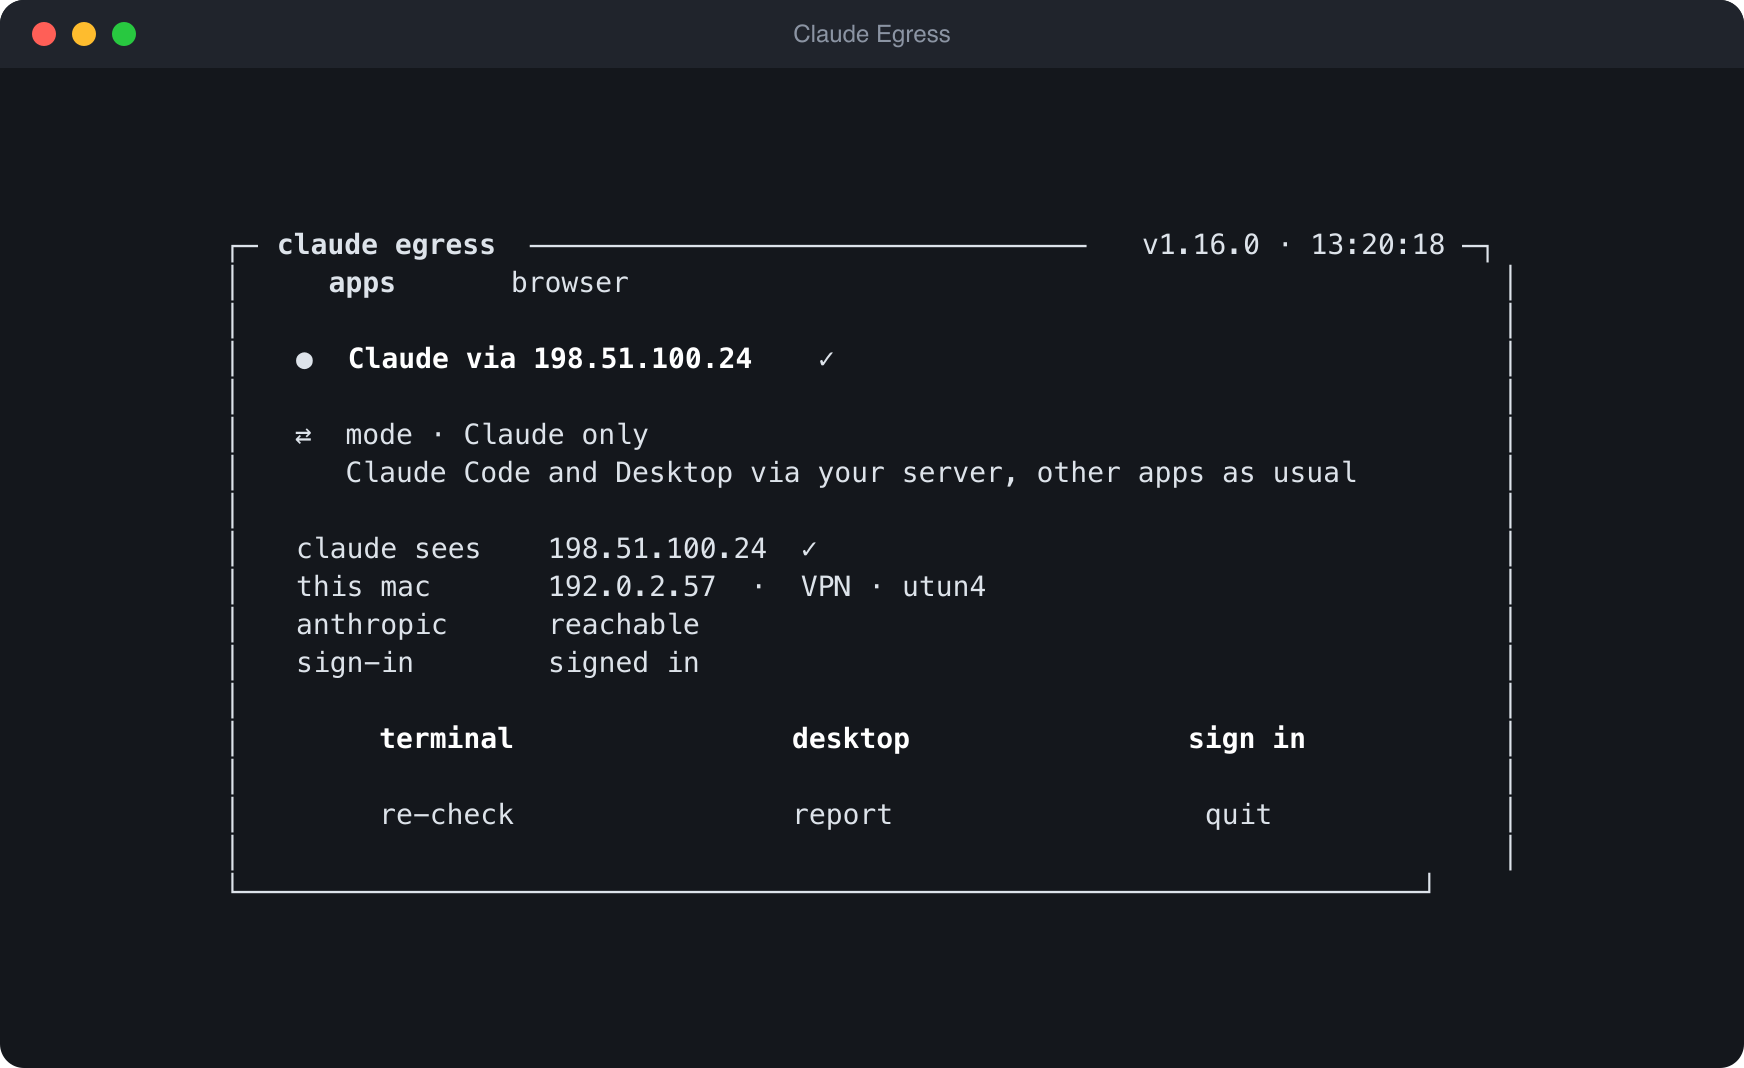
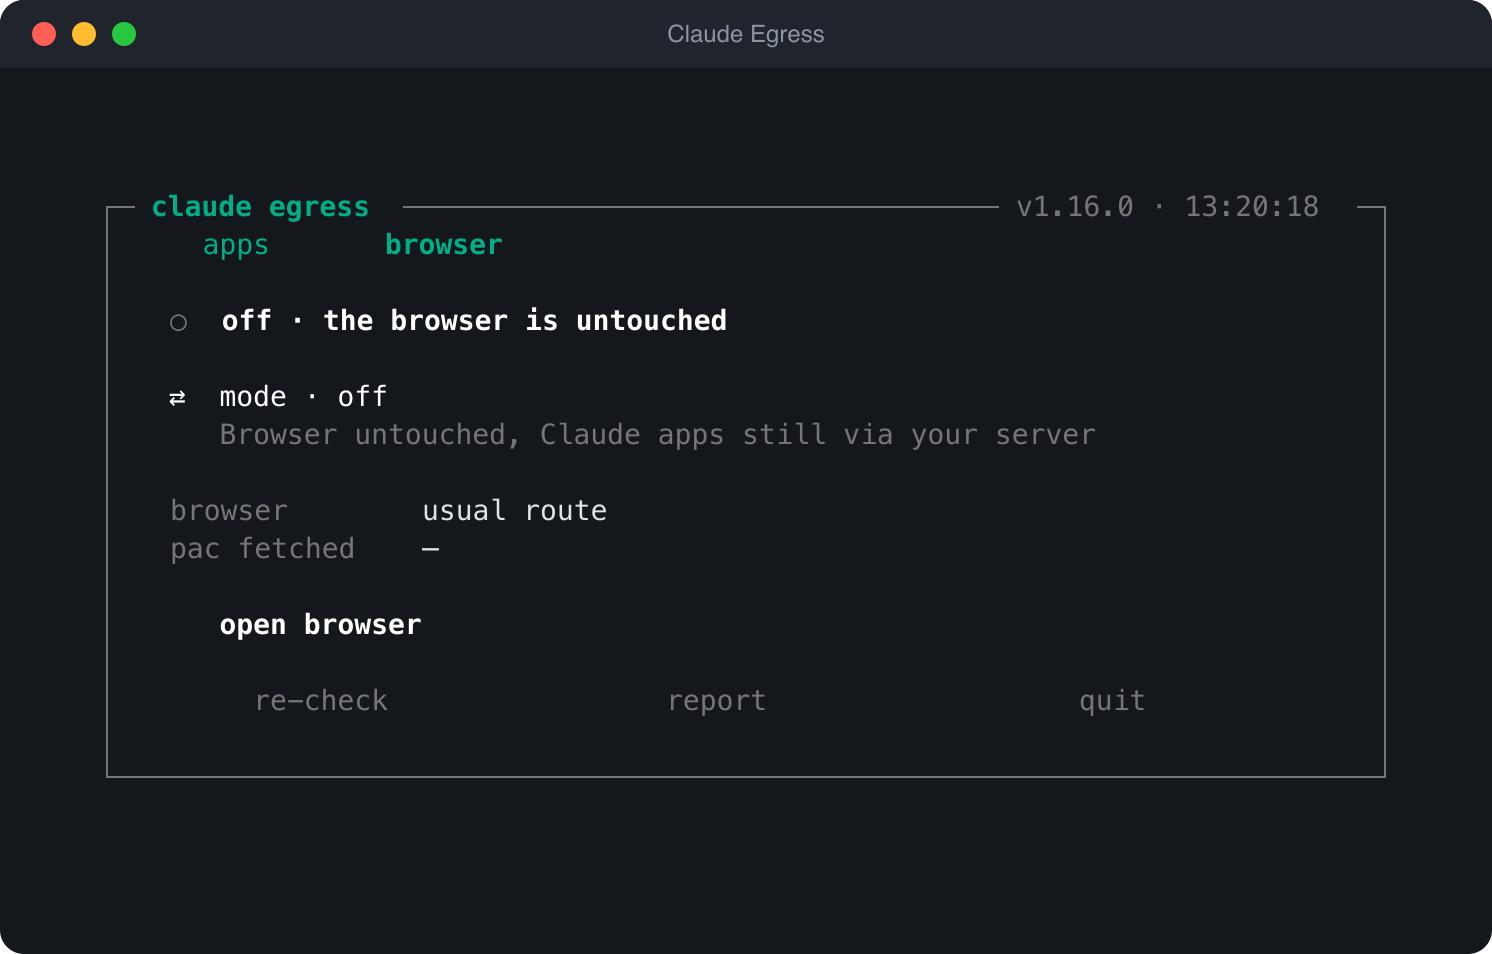
Refresh the page for 1.16: tabs, proxies, everything mode

diff --git a/README.md b/README.md
@@ -1,18 +1,20 @@
 <h1 align="center">Claude Egress</h1>
 
-<p align="center">A fixed outbound address for Claude, on a server you own.<br>Claude Code, Claude Desktop and the Claude sites in your browser leave from one IP.<br>Everything else, including your VPN, keeps its usual route.</p>
+<p align="center">One fixed outbound address for Claude, or for your whole Mac.<br>Through a server you own or a proxy you bought, with your VPN and everything else left alone unless you say otherwise.</p>
 
 <p align="center">
-  <img src="docs/dashboard.png" width="820" alt="The Claude Egress dashboard">
+  <img src="docs/dashboard.png" width="820" alt="The Claude Egress window">
 </p>
 
 ## What you need
 
 - macOS 13 or later.
-- An Ubuntu VPS of your own, with a public IPv4 and SSH reachable. Each person needs their own.
+- One way out, of your own:
+  - an Ubuntu VPS with a public IPv4 and SSH, which the app sets up for you, or
+  - an HTTP or SOCKS5 proxy: address, port, login and password.
 - Your own Claude account.
 
-No server is bundled. The app ships with no addresses and no passwords: on first run it asks for yours and sets the VPS up over SSH.
+Nothing is bundled. The app ships with no addresses and no passwords: on first run it asks for yours.
 
 ## Install
 
@@ -20,56 +22,85 @@ No server is bundled. The app ships with no addresses and no passwords: on first
 2. Open it and drag **Claude Egress** onto Applications.
 3. Open it from Applications.
 
-The app is signed with a Developer ID and notarised by Apple, so it opens straight away. It updates itself afterwards, with your say-so.
+The app is signed with a Developer ID and notarised by Apple, so it opens straight away. It updates itself afterwards, with your say-so. Opening it again while it runs brings the running session into the new window; the connection stays up.
 
 <sub>The release also carries `…-macos.zip`, which is what the built-in updater downloads. Either one installs the same app.</sub>
 
 ## First run
 
-It closes any running Claude, then asks four questions.
+It closes any running Claude, then asks a few questions.
 
 | Question | What to answer |
 | --- | --- |
-| Clear Claude data? | **No**, unless you want a clean slate. A backup is saved either way. |
-| Server | **Add a server** → **Set up a server over SSH**, then your VPS address, user and port. OpenSSH asks for the password itself; the app never stores it. |
+| Clear Claude data? | **No**, unless you want a clean slate. A backup is saved either way. Asked on the first run only. |
+| Server | **Add a server**, then either **Set up a server over SSH** (your VPS address, user and port; OpenSSH asks for the password itself and the app never stores it) or **Use an HTTP or SOCKS5 proxy** (address, port, login, password). For a proxy the app shows the address Claude will be seen from and asks you to confirm it. |
 | Project folder | Where Claude Code should open. |
-| Allow a system PAC | Needed for the Claude sites in your ordinary browser. macOS asks for your administrator password in its own dialog. |
+| Allow a system PAC | Needed for the browser tab. macOS asks for your administrator password in its own dialog. |
 
-Then press **Sign in**, finish signing in through the browser that opens, and press **Terminal**.
+Then press **sign in**, finish signing in through the browser that opens, and press **terminal**.
 
 Adding a server that is already set up costs nothing: the app checks it is healthy and reuses it, without reinstalling or restarting anything.
 
-## Browser proxying
+## Two tabs
 
-One button, three modes. The line underneath always says what the current one actually routes.
+The window has two tabs, **apps** and **browser**; Tab or a click switches between them. Each tab has its own status line, green when the address it promises is the address the world sees, and its own three-way mode switch.
+
+### apps
 
 <table>
 <tr>
 <td align="center" width="33%"><img src="docs/dashboard.png" alt="Claude only"><br><b>Claude only</b><br><sub>default</sub></td>
-<td align="center" width="33%"><img src="docs/all-sites.png" alt="All sites"><br><b>All sites</b><br><sub>everything but localhost</sub></td>
-<td align="center" width="33%"><img src="docs/off.png" alt="Off"><br><b>Off</b><br><sub>browser untouched</sub></td>
+<td align="center" width="33%"><img src="docs/everything.png" alt="Everything"><br><b>everything</b><br><sub>the whole Mac</sub></td>
+<td align="center" width="33%"><img src="docs/apps-off.png" alt="Off"><br><b>off</b><br><sub>Claude as usual</sub></td>
 </tr>
 </table>
 
-In **Claude only** the published Claude and Anthropic domains go through your server and nothing else does. **All sites** sends the whole browser through it, except `localhost`, `*.local` and private networks, so the sign-in callback and your intranet still work — and your server sees where every tab goes. **Off** puts your previous browser settings back; Claude Code and Desktop keep using the server either way.
+**Claude only** sends Claude Code and Claude Desktop through your way out and leaves every other app on its usual route, VPN included. **everything** sends every app on the Mac through it, so the Mac behaves as if it sat behind your server: a TUN interface hands each connection to the same local relay Claude uses. Your local network and the server itself stay direct, browsers follow their own tab, UDP is refused so apps fall back to TCP, and DNS goes out over HTTPS through the same channel. Turning it on asks for your administrator password; turning it off does not, and it ends with the session. It will not start while a VPN is on, because two system-wide routes break each other. **off** starts Claude exactly as it would without this app.
+
+### browser
+
+<table>
+<tr>
+<td align="center" width="33%"><img src="docs/browser-claude.png" alt="Claude only"><br><b>Claude only</b><br><sub>default</sub></td>
+<td align="center" width="33%"><img src="docs/all-sites.png" alt="All sites"><br><b>all sites</b><br><sub>everything but local</sub></td>
+<td align="center" width="33%"><img src="docs/off.png" alt="Off"><br><b>off</b><br><sub>browser untouched</sub></td>
+</tr>
+</table>
+
+In **Claude only** the published Claude and Anthropic domains go through your way out and nothing else does. **all sites** sends the whole browser through it, except `localhost`, `*.local` and private networks, so the sign-in callback and your intranet still work, and your server sees where every tab goes. **off** puts your previous browser settings back. The tab also counts how often browsers have fetched the routing file; zero means an extension or a policy is overriding it, and **open browser** starts a Chrome profile that cannot be overridden.
+
+### Common setups
+
+| You want | apps | browser | Your VPN |
+| --- | --- | --- | --- |
+| Everything through your way out, instead of a VPN | everything | all sites | off |
+| Claude through your way out, everything else through the VPN | Claude only | Claude only | on |
+| Claude through your way out, everything else direct | Claude only | Claude only | off |
+| The app out of the picture | off | off | either |
+
+Switch **apps** away from **everything** before turning a VPN on.
 
 ## Updates
 
 <p align="center"><img src="docs/update.png" width="760" alt="An available update"></p>
 
-The version sits in the header. The app checks at startup and whenever you press **Re-check**, and tells you when there is nothing new. An update is verified against its published SHA256 and its contents are checked before anything is replaced; the browser settings are restored and the relay stopped first, so an update never leaves the machine half-configured.
+The version sits in the header. The app checks at startup and whenever you press **re-check**, and tells you when there is nothing new. An update is verified against its published SHA256 and its contents are checked before anything is replaced. Only the window is swapped: the relay, the browser route and Claude keep running throughout.
 
 ## When something is wrong
 
 <p align="center"><img src="docs/error.png" width="760" alt="A failed connection"></p>
 
-The status line fills red and the app stops the relay rather than let traffic leave from the wrong address. Click the line for the full message. **Report** writes a zip to your Desktop with the version, the environment and the tail of both logs — your password, server address and user name are removed from it.
+The status line fills red. A wrong address stops the relay and closes Claude rather than let it leave from the wrong IP; so does losing the route twice in a row. Click the line for the full message. **report** writes a zip to your Desktop with the version, the environment and the tail of the logs, with your password, server address and user name removed.
 
-Keep the window open: the connection lives as long as it does.
+Keep the window open: the connection lives as long as the session does. A closed or lost window is brought back by opening the app again.
 
 ## Honest limits
 
-This is a relay, not a system-wide block. Programs that ignore proxy settings can still reach the network directly, and a fixed address does not guarantee that a service is available to you or that an account is in good standing. Windows is written but has not been piloted on real hardware.
+- This is a router, not a kill switch. Quitting the app, or an app that ignores both the proxy settings and the TUN, sends traffic on its usual route.
+- An HTTP proxy carries your proxy login unencrypted; Claude's own traffic stays inside HTTPS, so the proxy sees which sites you reach, not what you send. A VPS set up by the app uses a pinned TLS channel instead.
+- **everything** carries TCP only: calls, games and other UDP traffic do not get through it.
+- A fixed address does not guarantee that a service is available to you or that an account is in good standing.
+- Windows is written but has not been piloted on real hardware, and has no **everything** mode.
 
 ## Licence
 
